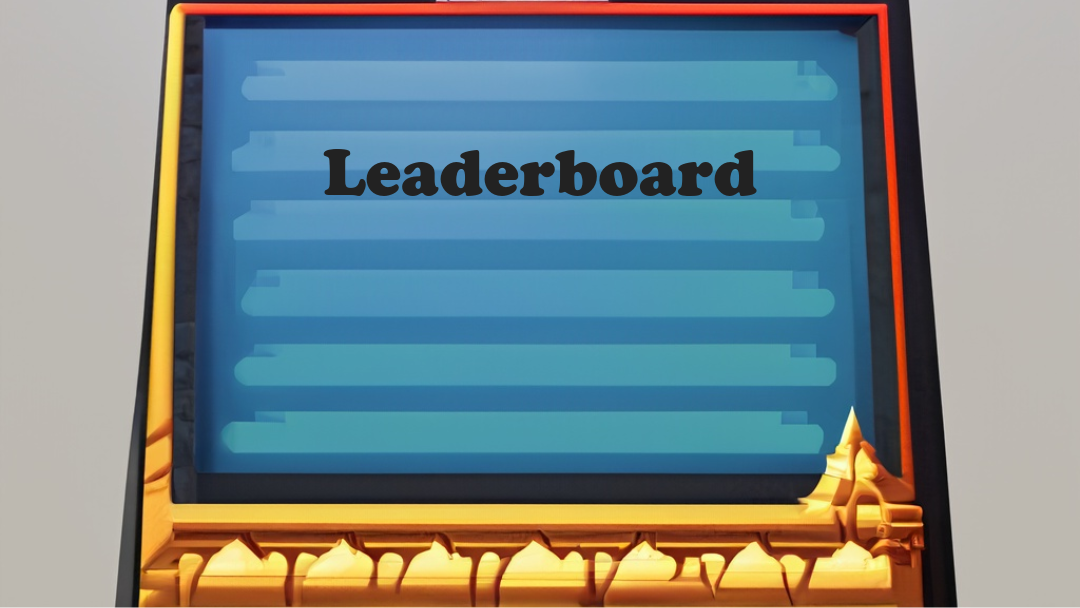
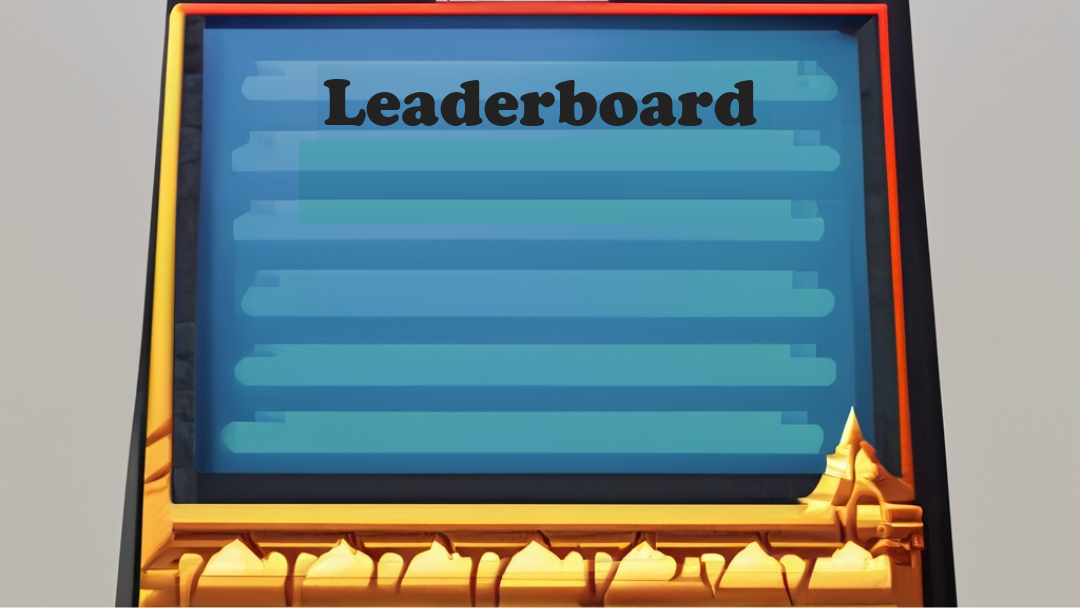
Update: Sprites +Leaderboard screen

Changed region(s): [[0.3056, 0.125, 0.7028, 0.3438]]

diff --git a/Game1.cs b/Game1.cs
@@ -4,6 +4,8 @@ using Microsoft.Xna.Framework.Input;
 using Newtonsoft.Json;
 using System;
 using System.Collections.Generic;
+using System.IO;
+using System.Linq;
 
 namespace ProjetMonogame
 {
@@ -13,6 +15,7 @@ namespace ProjetMonogame
         Won,
         Lost
     }
+
     public class GameState
     {
         public Rectangle PlayerRectangle { get; set; }
@@ -21,6 +24,12 @@ namespace ProjetMonogame
         public Rectangle MalusRectangle { get; set; }
         public int Score { get; set; }
         public GameStateEnum GameStates { get; set; }
+    }
+
+    public class PlayerScore
+    {
+        public string PlayerName { get; set; }
+        public int Score { get; set; }
     }
 
     public class Game1 : Game
@@ -40,6 +49,7 @@ namespace ProjetMonogame
 
         private const int ScreenWidth = 1080;
         private const int ScreenHeight = 720;
+        private string _leaderboardText;
 
         private Texture2D _howToPlayImage;
         private Texture2D _leaderboardImage;
@@ -47,6 +57,7 @@ namespace ProjetMonogame
 
         private Rectangle _bonusRectangle;
         private Rectangle _malusRectangle;
+        private List<PlayerScore> _leaderboardScores;
 
         private Texture2D _bonusTexture;
         private Texture2D _malusTexture;
@@ -81,6 +92,41 @@ namespace ProjetMonogame
         string leaderboardText = "Leaderboard";
         string howToPlayText = "How to Play";
         string exitText = "Exit";
+        private void SaveScores()
+        {
+            string scoresFilePath = Path.Combine(Content.RootDirectory, "Data", "scores.json");
+
+            List<PlayerScore> existingScores = new List<PlayerScore>();
+            if (File.Exists(scoresFilePath))
+            {
+                string existingScoresJson = File.ReadAllText(scoresFilePath);
+                existingScores = JsonConvert.DeserializeObject<List<PlayerScore>>(existingScoresJson);
+            }
+
+            var playerScore = new PlayerScore
+            {
+                PlayerName = "Player1",
+                Score = _score
+            };
+
+            var existingPlayerScore = existingScores.FirstOrDefault(score => score.PlayerName == playerScore.PlayerName);
+            if (existingPlayerScore != null)
+            {
+                existingPlayerScore.Score = playerScore.Score;
+            }
+            else
+            {
+                existingScores.Add(playerScore);
+            }
+
+            existingScores = existingScores.OrderByDescending(score => score.Score).ToList();
+
+            existingScores = existingScores.Take(10).ToList();
+
+            string newScoresJson = JsonConvert.SerializeObject(existingScores);
+
+            File.WriteAllText(scoresFilePath, newScoresJson);
+        }
 
         public Game1()
         {
@@ -113,14 +159,32 @@ namespace ProjetMonogame
         protected override void LoadContent()
         {
             _spriteBatch = new SpriteBatch(GraphicsDevice);
+            string scoresFilePath = Path.Combine(Content.RootDirectory, "Data", "scores.json");
+            if (File.Exists(scoresFilePath))
+            {
+                string scoresJson = File.ReadAllText(scoresFilePath);
+                if (!string.IsNullOrEmpty(scoresJson))
+                {
+                    _leaderboardScores = JsonConvert.DeserializeObject<List<PlayerScore>>(scoresJson);
+                }
+                else
+                {
+                    _leaderboardScores = new List<PlayerScore>();
+                }
+            }
+            else
+            {
+                _leaderboardScores = new List<PlayerScore>();
+            }
+
 
             _howToPlayImage = Content.Load<Texture2D>("howtoplay");
             _leaderboardImage = Content.Load<Texture2D>("leaderboard");
             _menuImage = Content.Load<Texture2D>("bgmainmenu");
 
-            _startZoneImage = Content.Load<Texture2D>("arrivalzone"); // faire l'image de départ 
+            _startZoneImage = Content.Load<Texture2D>("startingzone");
             _safeZoneImage = Content.Load<Texture2D>("arrivalzone");
-            _roadImage = Content.Load<Texture2D>("arrivalzone"); //Créer une route 
+            _roadImage = Content.Load<Texture2D>("road");
 
             _playerTexture = Content.Load<Texture2D>("frog");
             _carTexture = Content.Load<Texture2D>("car");
@@ -164,6 +228,11 @@ namespace ProjetMonogame
         {
             if (Keyboard.GetState().IsKeyDown(Keys.Escape))
                 Exit();
+
+            if (_gameState == GameStateEnum.Won)
+            {
+                SaveScores();
+            }
 
             if (menuEnabled)
             {
@@ -261,7 +330,15 @@ namespace ProjetMonogame
                 {
                     if (Keyboard.GetState().IsKeyDown(Keys.R))
                     {
-                        RestartGame();
+                        if (_gameState == GameStateEnum.Won)
+                        {
+                            SaveScores();
+                            RestartGame();
+                        }
+                        else
+                        {
+                            RestartGame();
+                        }
                     }
                 }
                 if (Keyboard.GetState().IsKeyDown(Keys.Back) && previousKeyboardState.IsKeyUp(Keys.Back))
@@ -386,7 +463,23 @@ namespace ProjetMonogame
                 else if (currentPage == MenuPage.Leaderboard)
                 {
                     _spriteBatch.Draw(_leaderboardImage, new Rectangle(0, 0, ScreenWidth, ScreenHeight), Color.White);
+
+                    Vector2 titlePosition = new Vector2(ScreenWidth / 2 - 100, 100);
+                    _spriteBatch.DrawString(_font, "Leaderboard", titlePosition, Color.White);
+
+                    Vector2 scoresStartPosition = new Vector2(ScreenWidth / 2 - 100, 200);
+                    int scoreOffset = 30;
+
+                    int maxScoresToShow = Math.Min(_leaderboardScores.Count, 10);
+
+                    for (int i = 0; i < maxScoresToShow; i++)
+                    {
+                        var score = _leaderboardScores[i];
+                        Vector2 scorePosition = scoresStartPosition + new Vector2(0, scoreOffset * i);
+                        _spriteBatch.DrawString(_font, $"{score.PlayerName}: {score.Score}", scorePosition, Color.White);
+                    }
                 }
+
             }
 
             _spriteBatch.End();

diff --git a/MenuPage.cs b/MenuPage.cs
@@ -5,6 +5,7 @@
         StartGame,
         Leaderboard,
         HowToPlay,
-        Exit
+        Exit,
+        EnterName
     }
 }
